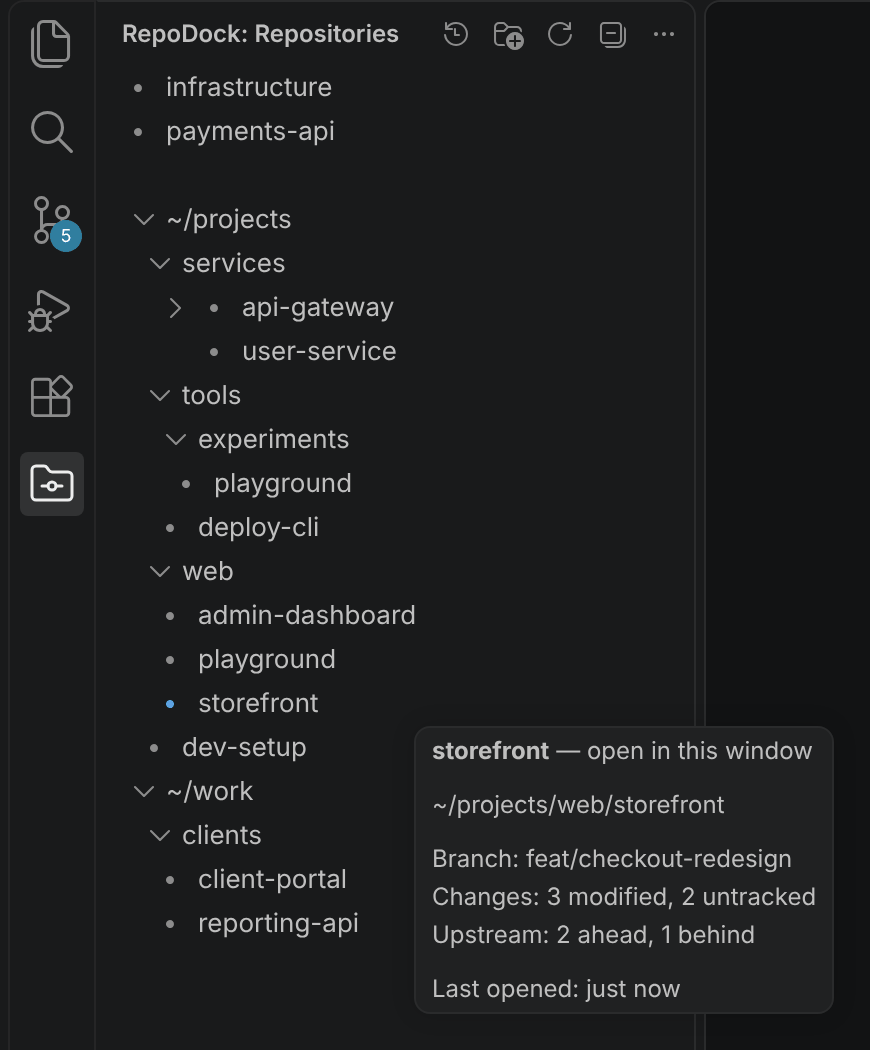
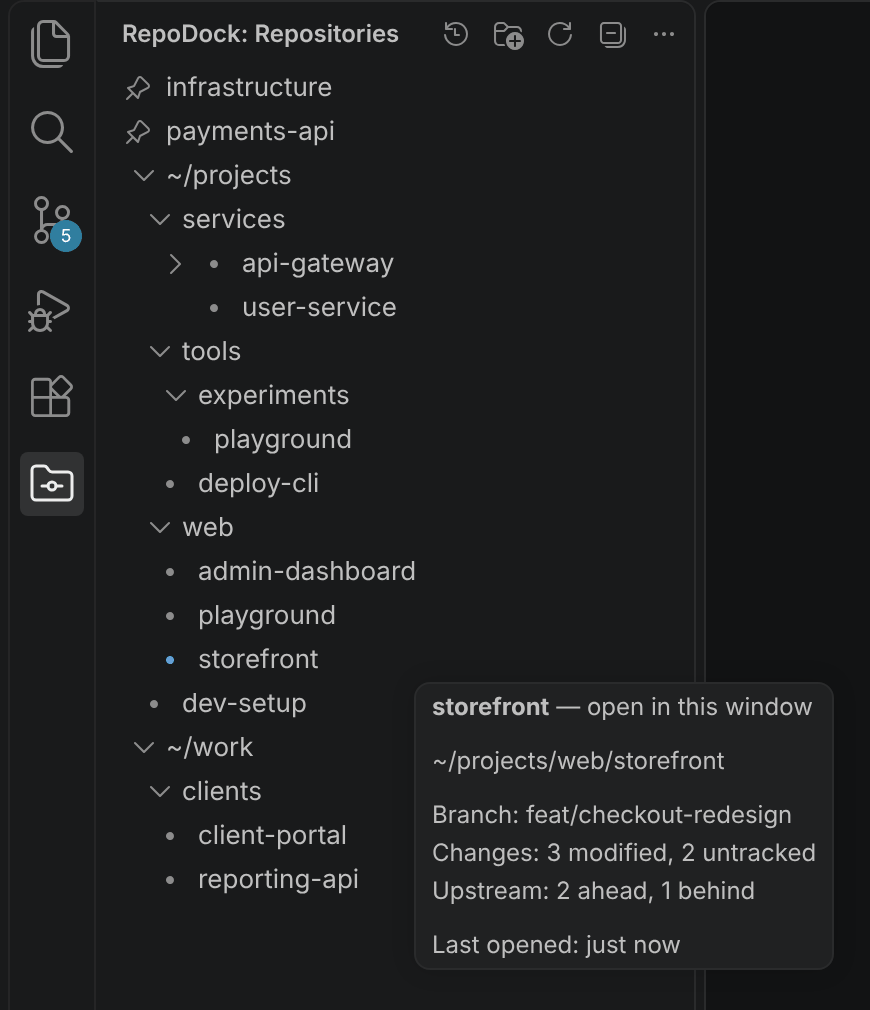
feat: mark pinned repos with a pin instead of a blank row
A pinned repo now shows a pin where other repos show a dot, so the pins stand
out in either layout, and the blank row that separated them from the rest is
gone. It read as a rendering glitch, arrow keys stopped on it, and screen
readers needed a label for an empty row. The pin of the repo open in this
window turns blue, as a dot does.

diff --git a/src/ext/treeProvider.ts b/src/ext/treeProvider.ts
@@ -9,18 +9,12 @@ import type { RecencyStore } from './recency';
 import type { RepoModel } from './repoModel';
 import { getConfig, tildify } from './settings';
 
-/** The blank row between the pinned repos and the rest, which is all that marks where pins end. */
-export interface GapNode {
-  kind: 'gap';
-  children: [];
-}
-
 /** A row in the RepoDock view; narrow on `kind`. */
-export type TreeNode = GapNode | RepoTreeNode;
+export type TreeNode = RepoTreeNode;
 
 /**
- * Backs the RepoDock view: pinned repos first, by name, then a blank row, then every other
- * repo, laid out as `repodock.layout` says. The folder layout mirrors the disk, and the
+ * Backs the RepoDock view: pinned repos first, by name, then every other repo, laid out as
+ * `repodock.layout` says. The folder layout mirrors the disk, and the
  * recent layout is one list with the most recently opened first.
  *
  * Identity matters: commands receive the element of the row they were invoked on, so the
@@ -70,7 +64,6 @@ export class RepoTreeProvider implements vscode.TreeDataProvider<TreeNode>, vsco
   }
 
   getTreeItem(node: TreeNode): vscode.TreeItem {
-    if (node.kind === 'gap') return this.gapItem(node);
     return node.kind === 'repo' ? this.repoItem(node) : this.folderItem(node);
   }
 
@@ -82,7 +75,6 @@ export class RepoTreeProvider implements vscode.TreeDataProvider<TreeNode>, vsco
    * leaving and another arriving, rather than one row jumping to a new parent.
    */
   idOf(node: TreeNode): string {
-    if (node.kind === 'gap') return 'gap';
     if (node.kind === 'folder') return `${node.isRoot ? 'root' : 'folder'}:${node.path}`;
     return `${this.pinnedRows.has(node) ? 'pinned' : 'repo'}:${node.repo.path}`;
   }
@@ -137,10 +129,9 @@ export class RepoTreeProvider implements vscode.TreeDataProvider<TreeNode>, vsco
     }
     for (const node of rest) this.index(node);
     // With no repos at all there are no rows, which is what brings up the welcome text in
-    // package.json. The gap only separates two groups, so it goes when either is empty.
-    const gap: GapNode[] =
-      pinned.length > 0 && rest.length > 0 ? [{ kind: 'gap', children: [] }] : [];
-    this.roots = [...pinned, ...gap, ...rest];
+    // package.json. No row separates the two groups: an empty one reads as a glitch, and
+    // the pin each pinned row carries already marks where they end.
+    this.roots = [...pinned, ...rest];
     return this.roots;
   }
 
@@ -150,15 +141,6 @@ export class RepoTreeProvider implements vscode.TreeDataProvider<TreeNode>, vsco
       this.repoNodes.set(canonicalPathKey(node.repo.path), node);
     }
     for (const child of node.children) this.index(child, node);
-  }
-
-  private gapItem(node: GapNode): vscode.TreeItem {
-    const item = new vscode.TreeItem('', vscode.TreeItemCollapsibleState.None);
-    item.id = this.idOf(node);
-    // a screen reader would otherwise announce an empty row
-    item.accessibilityInformation = { label: 'End of pinned repositories' };
-    // deliberately no contextValue: the /^repo/ menus in package.json must skip it
-    return item;
   }
 
   private folderItem(node: FolderNode): vscode.TreeItem {
@@ -186,13 +168,14 @@ export class RepoTreeProvider implements vscode.TreeDataProvider<TreeNode>, vsco
       node.children.length > 0 ? this.foldState(node, false) : vscode.TreeItemCollapsibleState.None,
     );
     item.id = this.idOf(node);
-    // A dot on every repo tells repos from folders, and a blue one marks the repo open in
-    // this window. Coloring the label instead would need a resourceUri, and VS Code draws
-    // the file-icon theme's icon on a row with a resourceUri and no icon of its own; a
-    // label highlight draws as a find-match box. The row shows the name alone: branch,
-    // upstream distance, changes, and last-opened time are all in the tooltip.
+    // Every repo carries a mark, which tells repos from folders: a pin for a pinned repo, a
+    // dot for the rest, blue for the repo open in this window. Coloring the label instead
+    // would need a resourceUri, and VS Code draws the file-icon theme's icon on a row with
+    // a resourceUri and no icon of its own; a label highlight draws as a find-match box.
+    // The row shows the name alone: branch, upstream distance, changes, and last-opened
+    // time are all in the tooltip.
     item.iconPath = new vscode.ThemeIcon(
-      'circle-small-filled',
+      isPinned ? 'pinned' : 'circle-small-filled',
       new vscode.ThemeColor(isCurrent ? 'charts.blue' : 'descriptionForeground'),
     );
     item.tooltip = repoTooltip(repo, state, openedAt, isCurrent, isPinned);

diff --git a/test/unit/treeProvider.test.ts b/test/unit/treeProvider.test.ts
@@ -44,7 +44,7 @@ async function render(
   return rendered;
 }
 
-/** The top-level rows' labels, from a fresh render. The gap row reads as ''. */
+/** The top-level rows' labels, from a fresh render. */
 const topLabels = (provider: RepoTreeProvider) =>
   provider.getChildren().map((node) => labelOf(provider, node));
 
@@ -173,11 +173,11 @@ describe('the recent layout', () => {
 });
 
 describe('pinned repos', () => {
-  it('lead the list by name, wherever they live, with a gap before the rest', async () => {
+  it('lead the list by name, wherever they live, with no row between them and the rest', async () => {
     const { provider, pins } = await render([web, api, portal]);
     await pins.pin(portal.path);
     await pins.pin(api.path);
-    expect(outline(provider)).toEqual(['api', 'portal', '', 'frontend', '  web']);
+    expect(outline(provider)).toEqual(['api', 'portal', 'frontend', '  web']);
   });
 
   it('lead the recent layout too, ahead of a repo opened more recently', async () => {
@@ -185,7 +185,7 @@ describe('pinned repos', () => {
     const { provider, pins, recency } = await render([web, api, portal]);
     await pins.pin(api.path);
     await openInOrder(recency, [api, web]);
-    expect(topLabels(provider)).toEqual(['api', '', 'web', 'portal']);
+    expect(topLabels(provider)).toEqual(['api', 'web', 'portal']);
   });
 
   it('move rather than copy: a pinned repo has one row', async () => {
@@ -194,19 +194,13 @@ describe('pinned repos', () => {
     expect(outline(provider).filter((label) => label.trim() === 'api')).toEqual(['api']);
   });
 
-  it('take no gap when nothing else is left to list', async () => {
-    const { provider, pins } = await render([web]);
-    await pins.pin(web.path);
-    expect(outline(provider)).toEqual(['web']);
-  });
-
   it('show no nested repos under them; those stay below, placed by their folders', async () => {
     const { provider, pins } = await render([gateway, sdk]);
     await pins.pin(gateway.path);
     const [row] = provider.getChildren();
     expect(provider.getChildren(required(row, 'a pinned row'))).toEqual([]);
     expect(provider.getTreeItem(required(row, 'a pinned row')).collapsibleState).toBe(0);
-    expect(outline(provider)).toEqual(['gateway', '', 'services/gateway/vendor', '  sdk']);
+    expect(outline(provider)).toEqual(['gateway', 'services/gateway/vendor', '  sdk']);
   });
 
   it('are told apart by folder when two share a name', async () => {
@@ -225,7 +219,7 @@ describe('pinned repos', () => {
 
     state.config.set('hiddenRepos', []);
     await model.refresh();
-    expect(outline(provider)).toEqual(['api', '', 'frontend', '  web']);
+    expect(outline(provider)).toEqual(['api', 'frontend', '  web']);
   });
 
   it('drop a pinned nested repo while nested repos are turned off', async () => {
@@ -234,23 +228,6 @@ describe('pinned repos', () => {
     expect(topLabels(provider)[0]).toBe('sdk');
     state.config.set('showNestedRepos', false);
     expect(outline(provider)).toEqual(['services', '  gateway']);
-  });
-});
-
-describe('the gap row', () => {
-  it('is blank, unclickable, out of the repo menus, and named for screen readers', async () => {
-    const { provider, pins } = await render([web, api]);
-    await pins.pin(api.path);
-    const gap = required(provider.getChildren()[1], 'the gap row');
-    expect(gap.kind).toBe('gap');
-    const item = provider.getTreeItem(gap);
-    expect(item.label).toBe('');
-    expect(item.id).toBe('gap');
-    expect(item.collapsibleState).toBe(0);
-    expect(item.command).toBeUndefined();
-    expect(item.contextValue).toBeUndefined();
-    expect(item.accessibilityInformation?.label).toBe('End of pinned repositories');
-    expect(provider.getChildren(gap)).toEqual([]);
   });
 });
 

diff --git a/test/unit/treeProvider-render.test.ts b/test/unit/treeProvider-render.test.ts
@@ -188,14 +188,27 @@ describe('the repo row', () => {
     expect(itemFor(sections, alpha.path).description).toBeUndefined();
   });
 
-  it('carries a dim dot, pinned or not', async () => {
+  it('carries a dim dot, or a dim pin once pinned', async () => {
     const sections = await render([alpha]);
     expect(iconOf(itemFor(sections, alpha.path))).toMatchObject({
       id: 'circle-small-filled',
       color: { id: 'descriptionForeground' },
     });
     await sections.pins.pin(alpha.path);
-    expect(iconOf(itemFor(sections, alpha.path))?.color?.id).toBe('descriptionForeground');
+    expect(iconOf(itemFor(sections, alpha.path))).toMatchObject({
+      id: 'pinned',
+      color: { id: 'descriptionForeground' },
+    });
+  });
+
+  it('turns the pin blue when the pinned repo is the one open in this window', async () => {
+    const sections = await render([alpha]);
+    await sections.pins.pin(alpha.path);
+    sections.model.setCurrentRepos([alpha.path]);
+    expect(iconOf(itemFor(sections, alpha.path))).toMatchObject({
+      id: 'pinned',
+      color: { id: 'charts.blue' },
+    });
   });
 
   it('turns the dot blue for the repo open in this window, and sets no resourceUri', async () => {

diff --git a/test/unit/extension.test.ts b/test/unit/extension.test.ts
@@ -350,14 +350,14 @@ describe('the rows after activation', () => {
     expect(outline(api.provider)).toEqual(['beta', 'alpha']);
   });
 
-  it('move a repo to the top, past a gap, as it is pinned and back as it is unpinned', async () => {
+  it('move a repo to the top as it is pinned, and back as it is unpinned', async () => {
     const api = await activateWithBoth();
     const element = required(api.provider.findRepoElement(beta.path), 'a row for beta');
     const run = (command: string) =>
       (required(state.commands.get(command), command) as (...args: unknown[]) => unknown)(element);
 
     await run('repodock.pinRepo');
-    expect(outline(api.provider)).toEqual(['beta', '', 'alpha']);
+    expect(outline(api.provider)).toEqual(['beta', 'alpha']);
 
     await run('repodock.unpinRepo');
     expect(outline(api.provider)).toEqual(['alpha', 'beta']);

diff --git a/test/integration/extension.test.ts b/test/integration/extension.test.ts
@@ -240,10 +240,11 @@ describe('RepoDock', () => {
     }
   });
 
-  it('moves a pinned repo to the top, past a gap, until it is unpinned', async () => {
+  it('moves a pinned repo to the top, marked with a pin, until it is unpinned', async () => {
     await vscode.commands.executeCommand('repodock.pinRepo', rowFor('alpha', 'vendor'));
-    assert.deepStrictEqual(outline(), ['vendor', '', 'group/sub', '  beta', 'alpha']);
+    assert.deepStrictEqual(outline(), ['vendor', 'group/sub', '  beta', 'alpha']);
     assert.strictEqual(itemFor('alpha', 'vendor').contextValue, 'repoNested-pinned');
+    assert.strictEqual((itemFor('alpha', 'vendor').iconPath as vscode.ThemeIcon).id, 'pinned');
 
     // unpinned from its own row, the way the row button does it
     await vscode.commands.executeCommand('repodock.unpinRepo', rowFor('alpha', 'vendor'));

diff --git a/test/unit/commands.test.ts b/test/unit/commands.test.ts
@@ -84,7 +84,7 @@ describe('opening a repository', () => {
     expect(rebuildViews).toHaveBeenCalledTimes(1);
   });
 
-  it('does nothing for a folder row, the gap row, or no row at all', async () => {
+  it('does nothing for a folder row or no row at all', async () => {
     const folder: TreeNode = {
       kind: 'folder',
       path: CODE,
@@ -93,7 +93,6 @@ describe('opening a repository', () => {
       children: [],
     };
     await run('repodock.open', folder);
-    await run('repodock.open', { kind: 'gap', children: [] });
     await run('repodock.open');
     expect(lastExecute('vscode.openFolder')).toBeUndefined();
     expect(recency.all().size).toBe(0);

diff --git a/test/unit/helpers/provider.ts b/test/unit/helpers/provider.ts
@@ -40,7 +40,7 @@ export function labelOf(provider: RepoTreeProvider, node: TreeNode): string {
 
 /**
  * Rows as indented labels, the way the view draws them, from a fresh render unless `nodes`
- * is given. The gap row reads as an empty string.
+ * is given.
  */
 export function outline(
   provider: RepoTreeProvider,

diff --git a/README.md b/README.md
@@ -9,7 +9,7 @@ Find every git repository inside the folders you add, and switch between them wi
 
 RepoDock scans the folders you choose and lists every repo it finds in a sidebar, with live git status. Clicking a row opens that repo.
 
-<img src="docs/screenshot.png" alt="The RepoDock sidebar: pinned repos at the top, a blank row, then the folders on disk with a dot before each repo name" width="348">
+<img src="docs/screenshot.png" alt="The RepoDock sidebar: pinned repos at the top, each with a pin, then the folders on disk with a dot before each repo name" width="348">
 
 ## Contents
 
@@ -26,13 +26,13 @@ RepoDock scans the folders you choose and lists every repo it finds in a sidebar
 
 - Finds every git repo in the folders you add, including repos inside other repos (submodules, vendored checkouts). Symlinked subfolders are not followed, so add the real folder rather than a link to it.
 - Lists them in one tree in the Activity Bar:
-  - **Pinned repos** come first, by name, so the ones you use daily stay at the top. Pinning moves a repo up rather than copying it, and a blank row separates the pins from the rest.
+  - **Pinned repos** come first, by name, so the ones you use daily stay at the top. Each one shows a pin where other repos show a dot. Pinning moves a repo up rather than copying it.
   - **Everything else** follows in one of two layouts, switched with the title-bar button:
     - **Folders** (the default) mirrors the disk: scanned folder, subfolders, then repos. A repo nested inside another repo sits under it. A repo under two overlapping folders appears once, in the more specific one.
     - **Recently opened** is one flat list, newest first. Repos you never opened follow, by name.
-- Keeps each row to a dot and the repo name. Hover a repo for its path, branch, modified and untracked files, how far it is ahead of and behind its upstream, and when you last opened it.
+- Keeps each row to a dot (or pin) and the repo name. Hover a repo for its path, branch, modified and untracked files, how far it is ahead of and behind its upstream, and when you last opened it.
 - Reloads git status and rescans the folders when the window regains focus, so a repo you cloned in a terminal appears without a manual refresh.
-- Marks the repo open in the current window with a blue dot. In the recently opened layout it is also the first row below the pins.
+- Marks the repo open in the current window by turning its dot (or pin) blue. In the recently opened layout it is also the first row below the pins.
 - Folds any folder, and remembers what you folded when you switch to another repo.
 - Tells same-named repos apart: the pinned repos and the recently opened list add the folder (`web-app (work)`, `web-app (personal)`), and the folder layout shows each under its own folder.
 - Hides the repos you never open.

diff --git a/CLAUDE.md b/CLAUDE.md
@@ -2,8 +2,8 @@
 
 RepoDock is a VS Code extension. It scans configured folders for git repositories and
 switches between them through a tree view in the Activity Bar. Pinned repos come first,
-then a blank gap row, then every other repo, laid out as the folders on disk or as one
-list with the most recently opened first (`repodock.layout`). README.md holds the
+each marked with a pin, then every other repo, marked with a dot and laid out as the
+folders on disk or as one list with the most recently opened first (`repodock.layout`). README.md holds the
 user-facing docs. This file covers what those docs leave out.
 
 ## Commands
@@ -97,12 +97,15 @@ Follows the TSDoc spec and the Microsoft TypeScript and VS Code coding guideline
 - Pinned repos and the rest are rows of one tree, not separate views. VS Code gives each
   view in a container a minimum body height of about 120px and splits the sidebar between
   them, so a two-row Pinned view sat above a block of empty space. Do not split them out.
-  An earlier version also put them under Pinned / Recent / All Repositories headings;
-  those were dropped as noise in favor of the gap row.
+  Earlier versions put them under Pinned / Recent / All Repositories headings, and then
+  split them with a blank row; both read as noise. The pin icon on each pinned row is now
+  all that marks the group, and it costs no height.
 - A repo has exactly one row: pinning moves it to the top. Its id still changes
   (`pinned:` instead of `repo:`), so VS Code sees one row leave and another arrive rather
-  than a row change parents. The gap row is a real, focusable row with an empty label,
-  because a tree item cannot be spacing alone; it carries an accessibility label instead.
+  than a row change parents.
+- Every repo row has a codicon (a pin or a dot, blue for the repo open in this window)
+  and no resourceUri. A row with a resourceUri and no icon of its own gets the file-icon
+  theme's icon, which is why the current repo is not marked by coloring its label.
 - VS Code forgets a tree's fold state when the window's workspace changes, which is what
   opening a repo does. `ExpansionStore` keeps it in global state, keyed by row id.
 - Do not call `TreeView.reveal` on this tree. Before VS Code 1.148 (seen in VSCodium

diff --git a/.claude/skills/editor-test/SKILL.md b/.claude/skills/editor-test/SKILL.md
@@ -82,9 +82,9 @@ Scenario style, so the catalog stays uniform:
 - `title` is one sentence stating the expected behavior. It is what the report shows.
 - Wrap every assertion about the UI in `ui.eventually`. Scans, git loads, and settings
   reloads all land asynchronously.
-- Read rows with `ui.rows(part)`: `P.pinned` is the rows above the blank gap row, `P.rest`
-  the rows below it, and no part is the whole tree. `ui.gap()` finds the gap row. `ui.row()`
-  is async: it finds the row in the tree as it is at that moment.
+- Read rows with `ui.rows(part)`: `P.pinned` is the run of pin-marked rows at the top,
+  `P.rest` the rows after it, and no part is the whole tree. `ui.row()` is async: it finds
+  the row in the tree as it is at that moment.
 - Assert exact text with `assert.deepEqual` or `assert.equal` where the text is fixed, and
   a regular expression only where it legitimately varies (hashes, relative times).
 - Put per-scenario configuration in `settings`. The runner resets to the base settings
